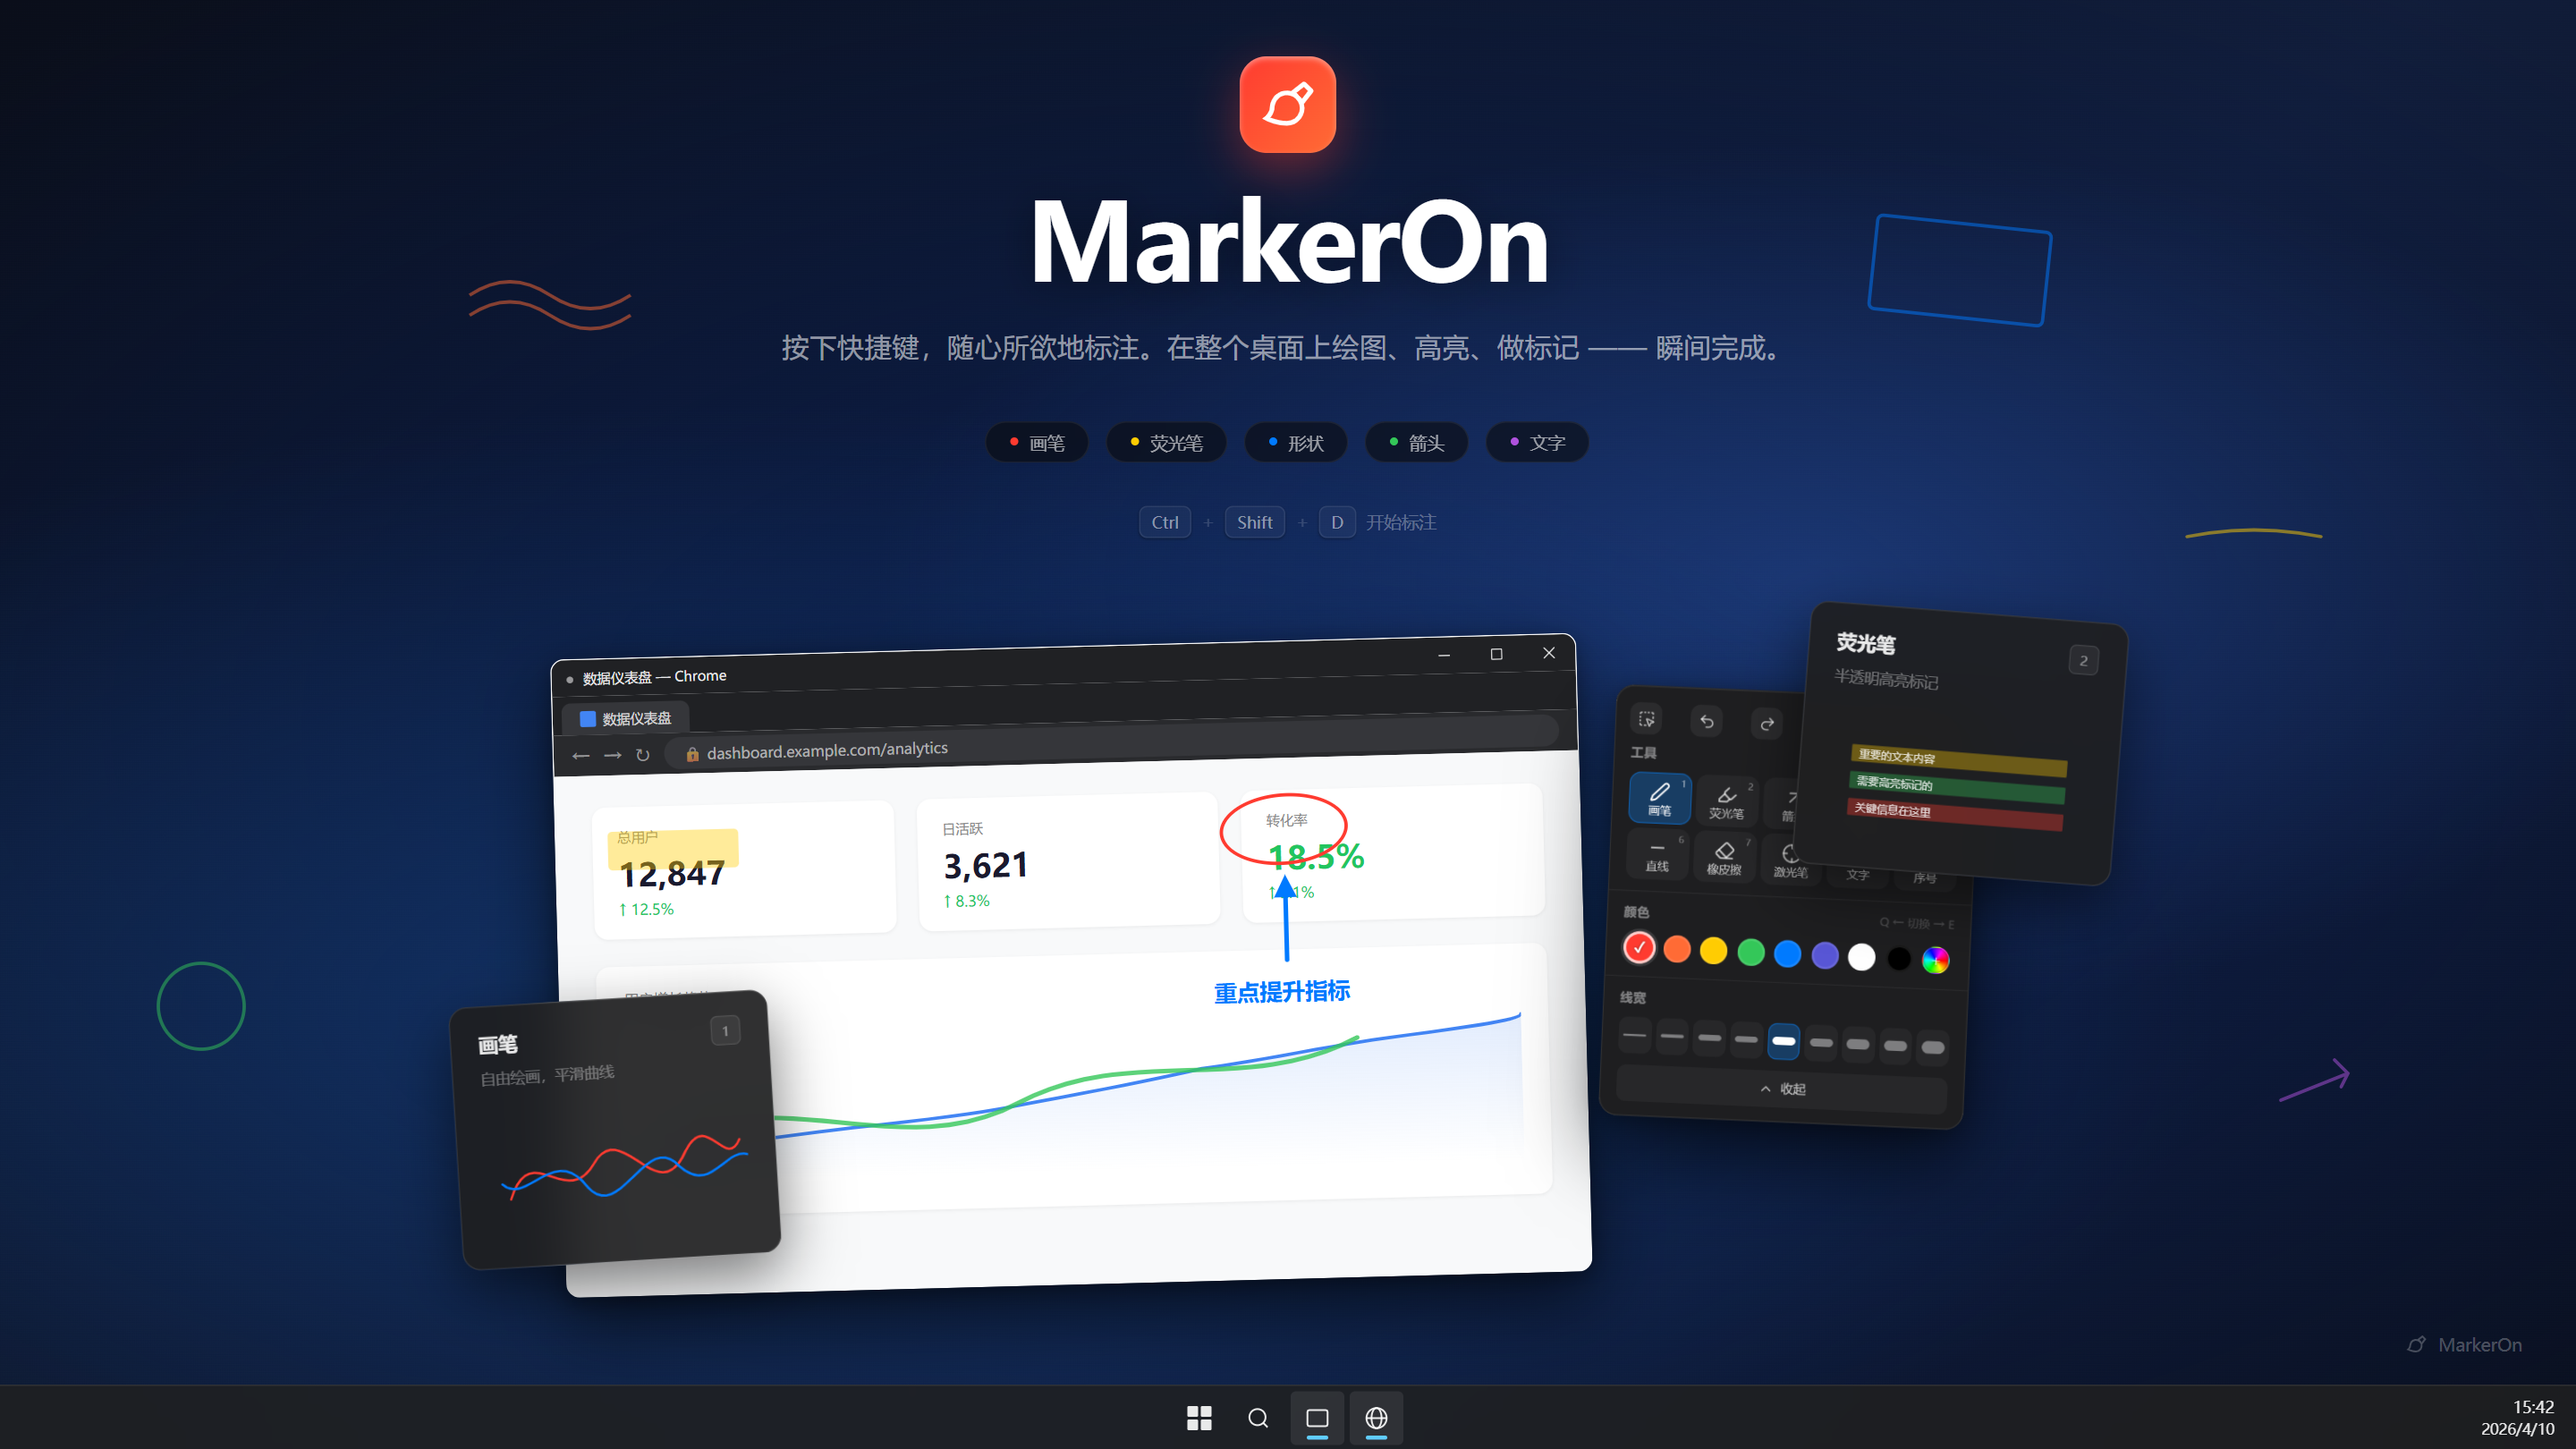
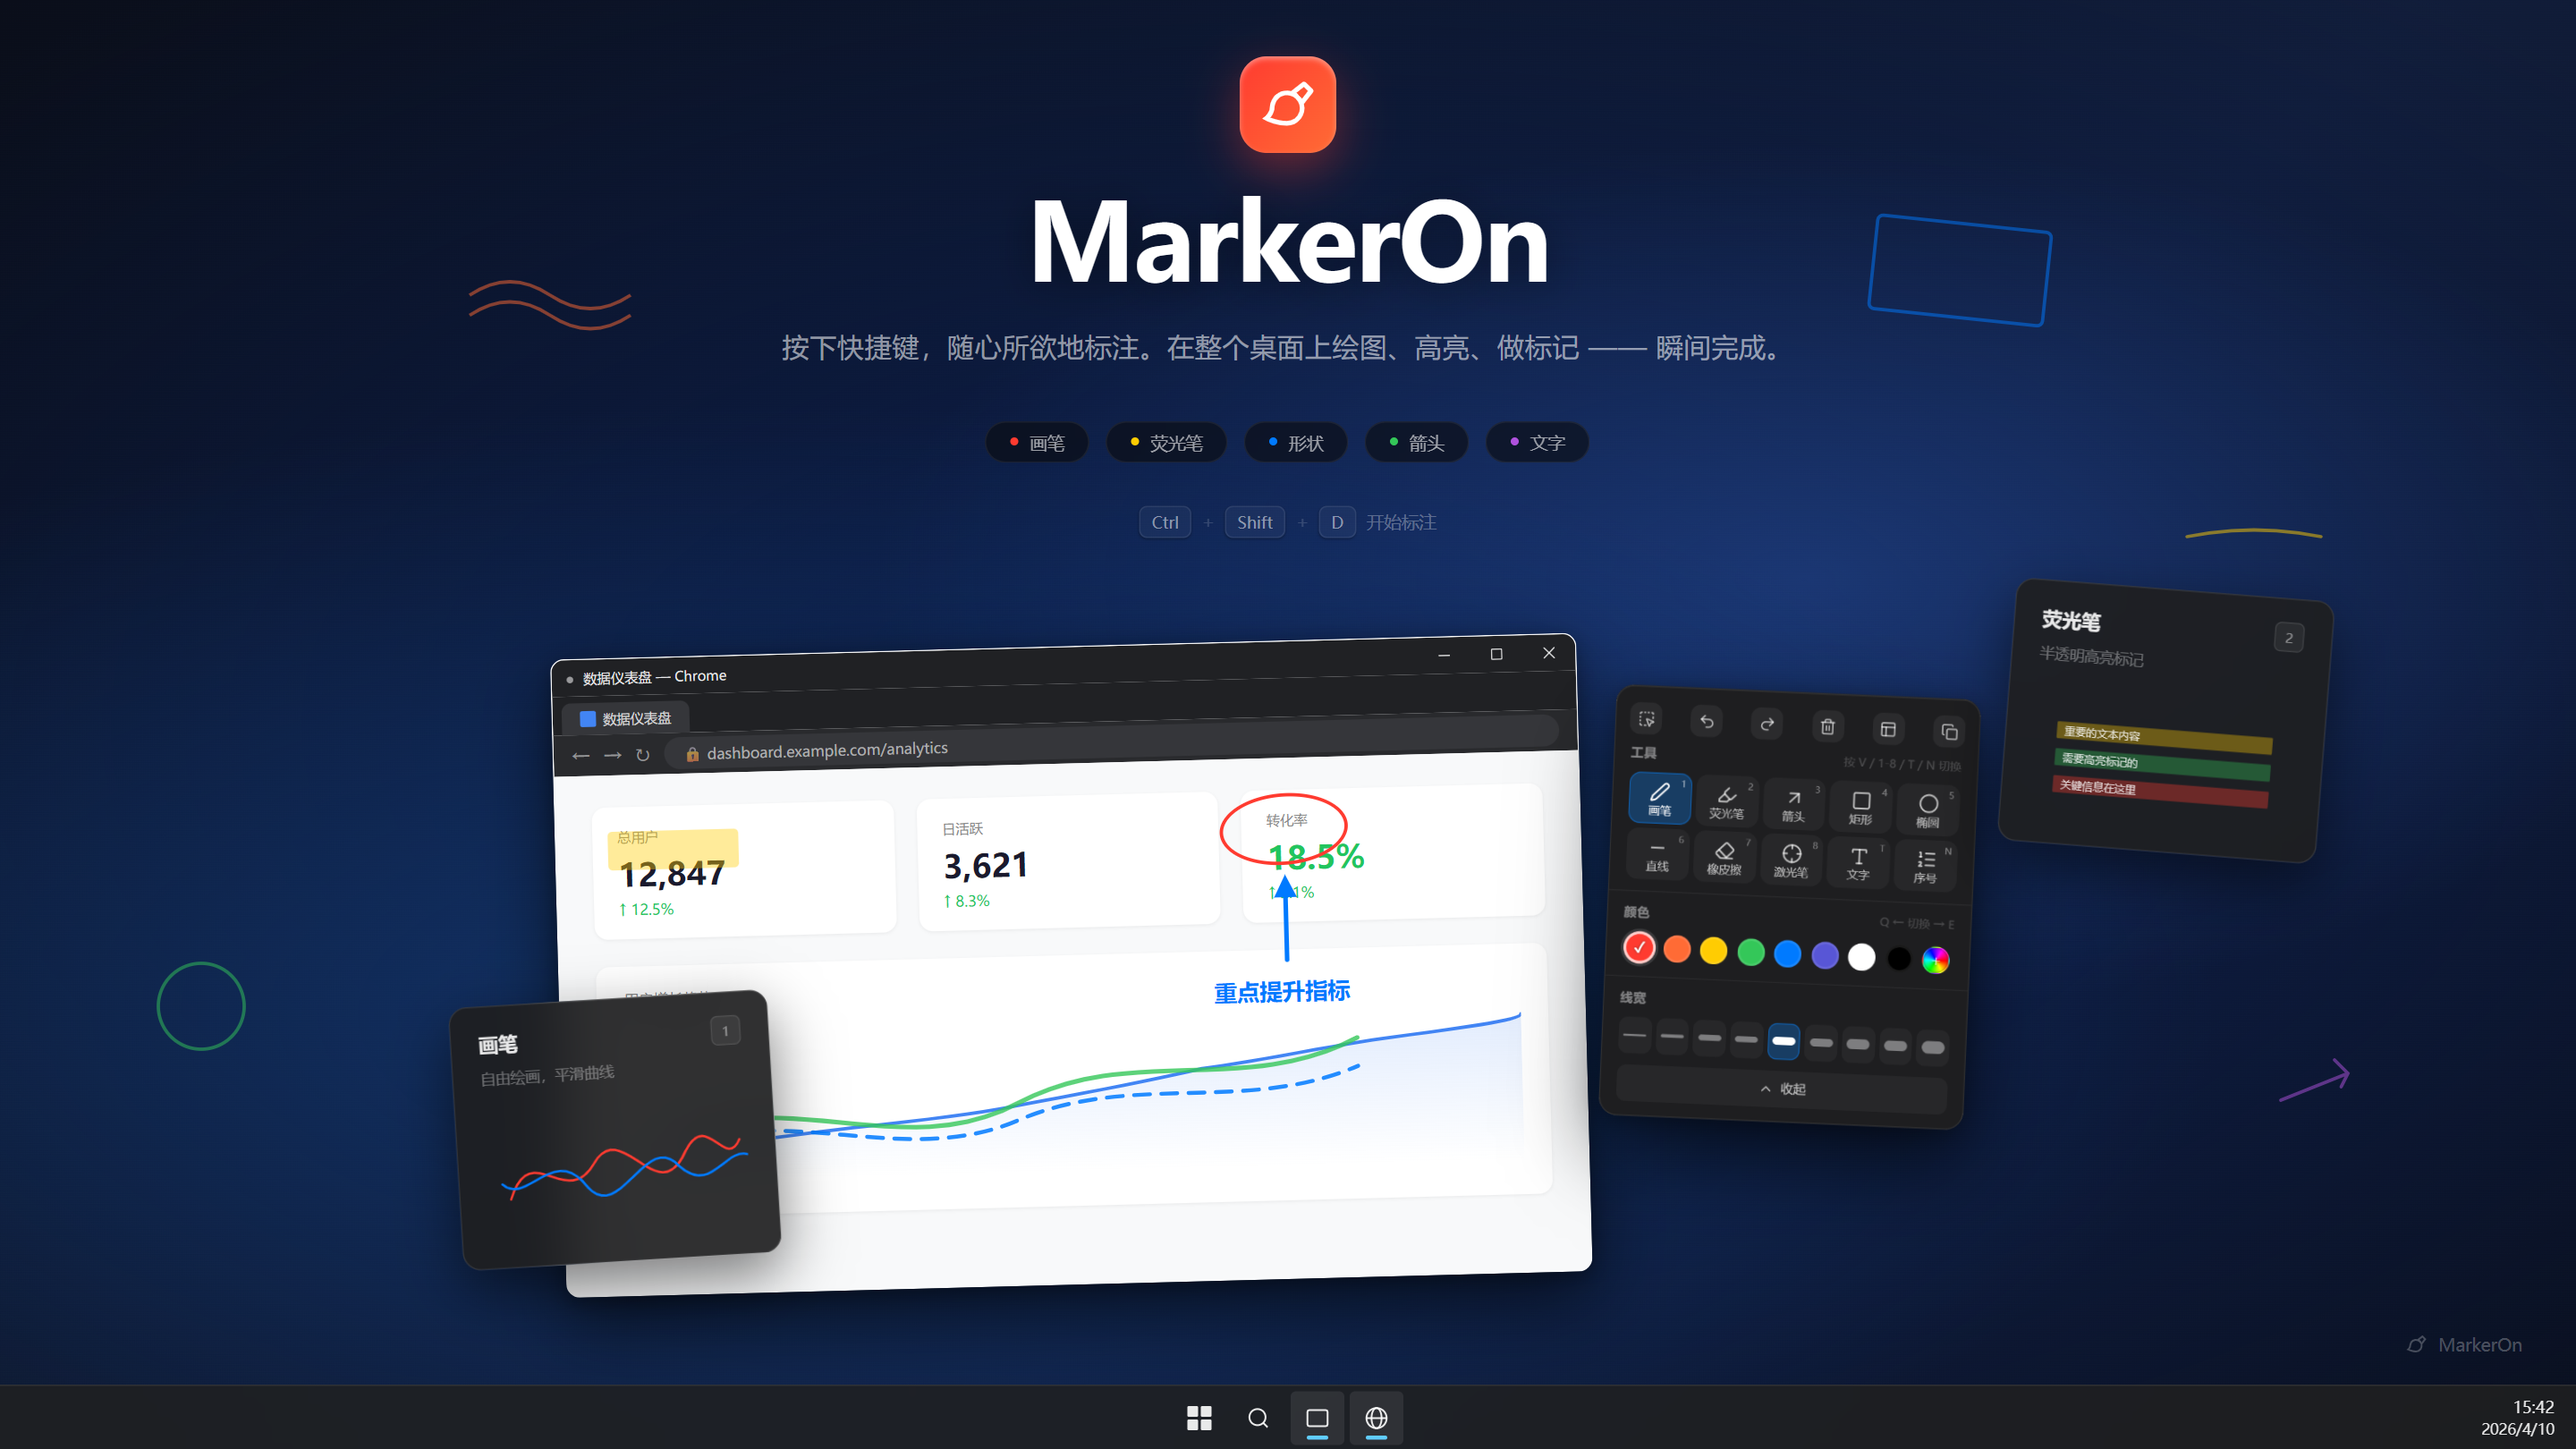
fix(assets): keep the highlighter card off the toolbar panel in the hero scene
The rotated Highlighter card sat on top of the floating toolbar panel and hid
its top-right corner: the "Press V/1-8/T/N" hint, the Rectangle and Ellipse
tools and the "Q / E" colour hint were all covered, so the hero shot showed a
different panel from the one users actually see.

Move the card right and up (right -30 -> -210px, top -20 -> -40px) so it
clears the panel with an 11px gap and still fits inside the 1920px frame.
Also draw a blue dashed curve under the green freehand stroke, so the scene
shows that the dashed line style follows a bend instead of staying straight.

Re-export docs/assets/hero.png and assets/MarkerOn.png from the updated
scenes.

Changed region(s): [[0.6875, 0.4012, 0.9062, 0.6173]]

diff --git a/assets/store-screenshots/scene0-hero-en.html b/assets/store-screenshots/scene0-hero-en.html
@@ -172,7 +172,7 @@ body {
 .tool-demo { flex: 1; display: flex; align-items: center; justify-content: center; min-height: 120px; }
 .tool-demo svg { width: 100%; height: 100%; max-height: 140px; }
 
-.floating-card-1 { top: -20px; right: -30px; transform: rotate(4.5deg); }
+.floating-card-1 { top: -40px; right: -210px; transform: rotate(4.5deg); }
 .floating-card-2 { bottom: 10px; left: -30px; transform: rotate(-3.5deg); }
 
 /* Windows 11 Taskbar */
@@ -300,6 +300,8 @@ body {
       <polygon points="640,205 630,225 650,225" fill="#007AFF"/>
       <text x="560" y="315" font-family="-apple-system, Segoe UI, sans-serif" font-size="20" font-weight="700" fill="#007AFF">Key Metric</text>
       <path d="M100,420 C 200,380 300,450 400,400 C 500,350 600,400 700,350" fill="none" stroke="#34C759" stroke-width="4" stroke-linecap="round" opacity="0.8"/>
+      <!-- Dashed freehand stroke: shows the dashed line style bends along the curve -->
+      <path d="M100,430 C 200,395 300,455 400,415 C 500,375 600,415 700,375" fill="none" stroke="#007AFF" stroke-width="3.5" stroke-linecap="round" stroke-dasharray="14 10" opacity="0.85"/>
     </svg>
   </div>
 

diff --git a/assets/store-screenshots/scene0-hero.html b/assets/store-screenshots/scene0-hero.html
@@ -172,7 +172,7 @@ body {
 .tool-demo { flex: 1; display: flex; align-items: center; justify-content: center; min-height: 120px; }
 .tool-demo svg { width: 100%; height: 100%; max-height: 140px; }
 
-.floating-card-1 { top: -20px; right: -30px; transform: rotate(4.5deg); }
+.floating-card-1 { top: -40px; right: -210px; transform: rotate(4.5deg); }
 .floating-card-2 { bottom: 10px; left: -30px; transform: rotate(-3.5deg); }
 
 /* Windows 11 Taskbar */
@@ -312,6 +312,8 @@ body {
       
       <!-- Freehand line drawn randomly on chart -->
       <path d="M100,420 C 200,380 300,450 400,400 C 500,350 600,400 700,350" fill="none" stroke="#34C759" stroke-width="4" stroke-linecap="round" opacity="0.8"/>
+      <!-- Dashed freehand stroke: shows the dashed line style bends along the curve -->
+      <path d="M100,430 C 200,395 300,455 400,415 C 500,375 600,415 700,375" fill="none" stroke="#007AFF" stroke-width="3.5" stroke-linecap="round" stroke-dasharray="14 10" opacity="0.85"/>
     </svg>
   </div>
 
